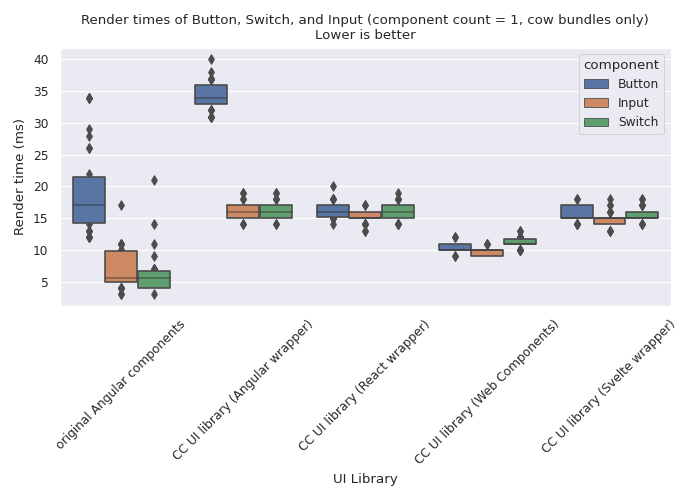
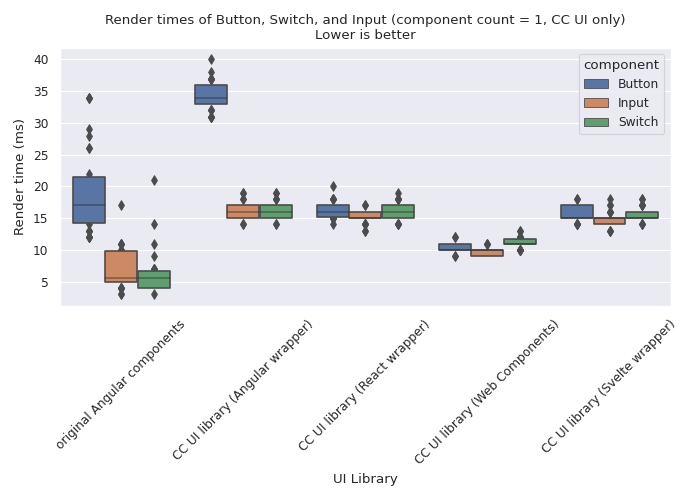
change labels

Changed region(s): [[0.12, 0.03, 0.93, 0.06]]

diff --git a/paper/plots/generators/load_time/cow_plot.py b/paper/plots/generators/load_time/cow_plot.py
@@ -7,7 +7,7 @@ def generate_load_time_cow_plot():
     data = get_data()
 
     ax = create_plot(
-        "Load time of main bundle (cow bundles only)\nLower is better",
+        "Load time of main bundle (CC UI only)\nLower is better",
         "boxen",
         data,
         lambda bundle_data: bundle_data.load_time.values if "cow-components" in bundle_data.framework else None,
@@ -25,7 +25,7 @@ def generate_load_time_cow_plot_no_angular():
     data = get_data()
 
     ax = create_plot(
-        "Load time of main bundle (cow bundles only, without cow-components-angular)\nLower is better",
+        "Load time of main bundle (CC UI only, without cow-components-angular)\nLower is better",
         "boxen",
         data,
         lambda bundle_data: bundle_data.load_time.values

diff --git a/paper/plots/generators/render_time/cow_plot.py b/paper/plots/generators/render_time/cow_plot.py
@@ -27,7 +27,7 @@ def generate_render_time_cow_plot():
 
     for count in [1, 10, 100]:
         ax = create_plot(
-            f"Render times of Button, Switch, and Input (component count = {count}, cow bundles only)\nLower is better",
+            f"Render times of Button, Switch, and Input (component count = {count}, CC UI only)\nLower is better",
             "boxen",
             data,
             None,
